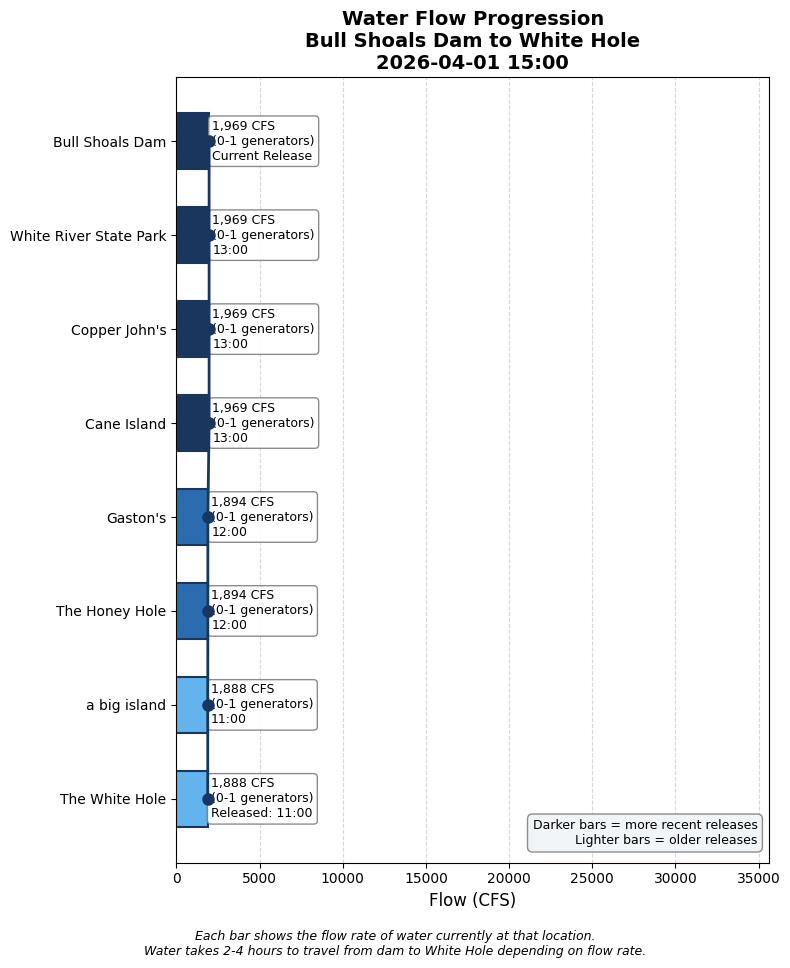
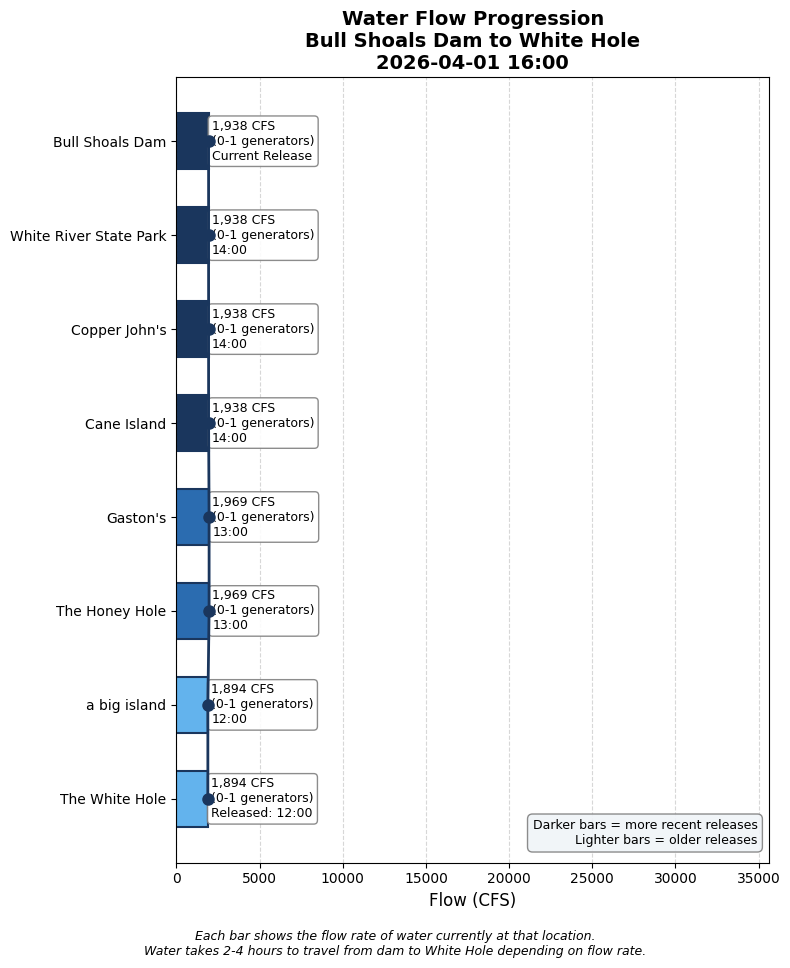
Update water conditions 2026-04-01 16:00

diff --git a/white_hole_conditions.html b/white_hole_conditions.html
@@ -3,7 +3,7 @@
 <head>
     <meta charset="UTF-8">
     <meta name="viewport" content="width=device-width, initial-scale=1.0">
-    <title>White Hole Conditions - 2026-04-01 15:00</title>
+    <title>White Hole Conditions - 2026-04-01 16:00</title>
     <style>
         body {
             font-family: -apple-system, BlinkMacSystemFont, 'Segoe UI', Roboto, sans-serif;
@@ -148,7 +148,7 @@
 </head>
 <body>
     <h1>White Hole Current Conditions</h1>
-    <p class="subtitle">Wednesday, April 01, 2026 at 03:00 PM</p>
+    <p class="subtitle">Wednesday, April 01, 2026 at 04:00 PM</p>
 
     <!-- HEADLINE BANNER -->
     <div class="headline-banner">
@@ -159,7 +159,7 @@
     <!-- CURRENT CONDITIONS -->
     <div class="current-conditions">
         <h3>Current Conditions at White Hole</h3>
-        <div class="flow-display">1,888 CFS</div>
+        <div class="flow-display">1,894 CFS</div>
         <div class="generator-display">Equivalent to 0-1 generators</div>
         <div class="condition-pills">
             <span class="pill wading">Excellent Wading</span>
@@ -186,26 +186,26 @@
                 <tbody>
                     
                 <tr style="background-color: #ebf8ff;">
-                    <td style="padding: 10px; font-weight: bold;">13:00</td>
-                    <td style="padding: 10px;">1,969 CFS<br><small style="color: #666;">(0-1 generators)</small></td>
-                    <td style="padding: 10px;"><span style="color: #2b6cb0;">→ Arrives ~16:44 (in 103 min)</span></td>
+                    <td style="padding: 10px; font-weight: bold;">14:00</td>
+                    <td style="padding: 10px;">1,938 CFS<br><small style="color: #666;">(0-1 generators)</small></td>
+                    <td style="padding: 10px;"><span style="color: #2b6cb0;">→ Arrives ~17:44 (in 103 min)</span></td>
                 </tr>
             
                 <tr style="background-color: #ebf8ff;">
-                    <td style="padding: 10px; font-weight: bold;">12:00</td>
-                    <td style="padding: 10px;">1,894 CFS<br><small style="color: #666;">(0-1 generators)</small></td>
-                    <td style="padding: 10px;"><span style="color: #2b6cb0;">→ Arrives ~15:44 (in 43 min)</span></td>
+                    <td style="padding: 10px; font-weight: bold;">13:00</td>
+                    <td style="padding: 10px;">1,969 CFS<br><small style="color: #666;">(0-1 generators)</small></td>
+                    <td style="padding: 10px;"><span style="color: #2b6cb0;">→ Arrives ~16:44 (in 43 min)</span></td>
                 </tr>
             
                 <tr style="background-color: #e6fffa;">
-                    <td style="padding: 10px; font-weight: bold;">11:00</td>
-                    <td style="padding: 10px;">1,888 CFS<br><small style="color: #666;">(0-1 generators)</small></td>
+                    <td style="padding: 10px; font-weight: bold;">12:00</td>
+                    <td style="padding: 10px;">1,894 CFS<br><small style="color: #666;">(0-1 generators)</small></td>
                     <td style="padding: 10px;"><span style="color: #319795; font-weight: bold;">← AT WHITE HOLE NOW</span></td>
                 </tr>
             
                 <tr style="">
-                    <td style="padding: 10px; font-weight: bold;">08:00</td>
-                    <td style="padding: 10px;">1,825 CFS<br><small style="color: #666;">(0-1 generators)</small></td>
+                    <td style="padding: 10px; font-weight: bold;">09:00</td>
+                    <td style="padding: 10px;">2,108 CFS<br><small style="color: #666;">(0-1 generators)</small></td>
                     <td style="padding: 10px;"><span style="color: #718096;">passed</span></td>
                 </tr>
             
@@ -230,9 +230,9 @@
         </summary>
         <div style="padding: 15px;">
             <ul>
-                <li>Latest dam reading: 1,969 CFS at 2026-04-01 13:00</li>
+                <li>Latest dam reading: 1,938 CFS at 2026-04-01 14:00</li>
                 <li>Travel time to White Hole: 3.7 hours at current flow</li>
-                <li>White Hole conditions based on dam reading from: 2026-04-01 11:00</li>
+                <li>White Hole conditions based on dam reading from: 2026-04-01 12:00</li>
             </ul>
         </div>
     </details>
@@ -254,6 +254,13 @@
                     </thead>
                     <tbody>
                         
+                <tr style="border-bottom: 1px solid #eee;">
+                    <td style="padding: 8px;">2026-04-01 14:00</td>
+                    <td style="padding: 8px; text-align: right;">1938</td>
+                    <td style="padding: 8px; text-align: right;">0.6</td>
+                    <td style="padding: 8px; text-align: right;">3.7</td>
+                </tr>
+                
                 <tr style="border-bottom: 1px solid #eee;">
                     <td style="padding: 8px;">2026-04-01 13:00</td>
                     <td style="padding: 8px; text-align: right;">1969</td>
@@ -317,13 +324,6 @@
                     <td style="padding: 8px; text-align: right;">3.7</td>
                 </tr>
                 
-                <tr style="border-bottom: 1px solid #eee;">
-                    <td style="padding: 8px;">2026-04-01 04:00</td>
-                    <td style="padding: 8px; text-align: right;">2176</td>
-                    <td style="padding: 8px; text-align: right;">0.7</td>
-                    <td style="padding: 8px; text-align: right;">3.7</td>
-                </tr>
-                
                     </tbody>
                 </table>
             </div>
@@ -331,7 +331,7 @@
         
 
     <div class="timestamp">
-        Data retrieved and processed on 2026-04-01 15:00:08
+        Data retrieved and processed on 2026-04-01 16:00:08
     </div>
 </body>
 </html>
